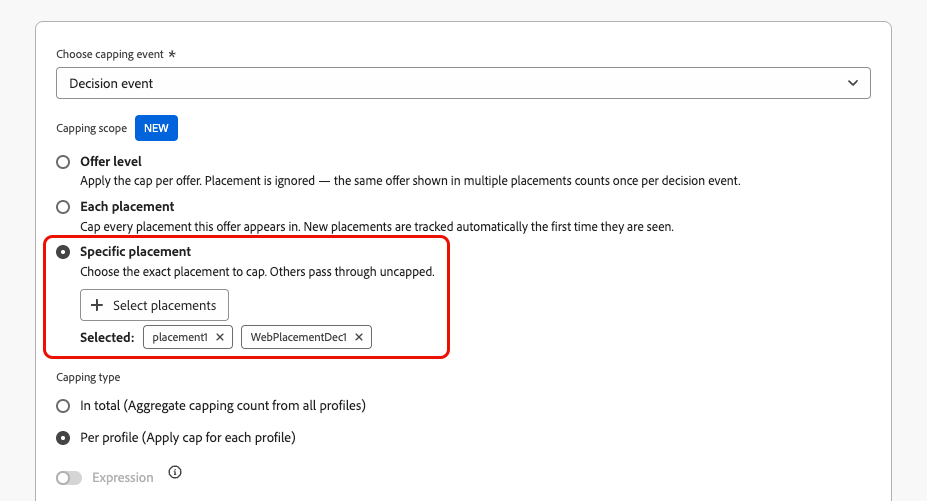
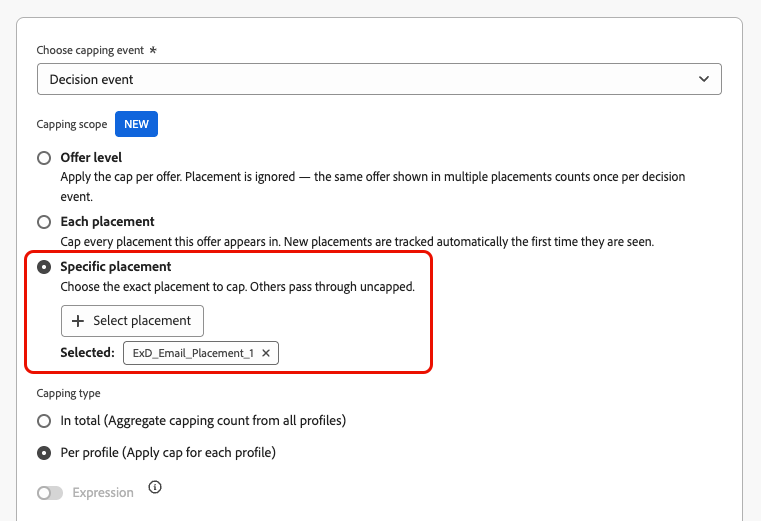
ExD - Fix in UI for Select placement to cap

Changed region(s): [[0.0302, 0.0299, 0.9671, 0.8982], [0.0302, 0.9281, 0.2116, 0.988]]

diff --git a/help/using/experience-decisioning/items.md b/help/using/experience-decisioning/items.md
@@ -199,7 +199,7 @@ To set capping rules for the decision item, follow the steps detailed below.
         >
         >**Specific placement** capping is only supported for the **Web** and **Email** channels. It is not available for Code-based experience, SMS, Push, or Direct mail channels.
     
-        Click **[!UICONTROL Select placements]** to pick which placements to cap. Other placements pass through uncapped. For example, if you select the Hero Banner placement with a cap of 3 impressions per day, the offer stops appearing in the Hero Banner after 3 impressions but remains eligible in all other placements.
+        Click **[!UICONTROL Select placement]** to pick which placement to cap. Other placements pass through uncapped. For example, if you select the Hero Banner placement with a cap of 3 impressions per day, the offer stops appearing in the Hero Banner after 3 impressions but remains eligible in all other placements.
 
         ![Specific placement capping scope selected, showing the Select placements button and selected placement tags](assets/item-capping-scope-specific.png){width="75%"}
 
